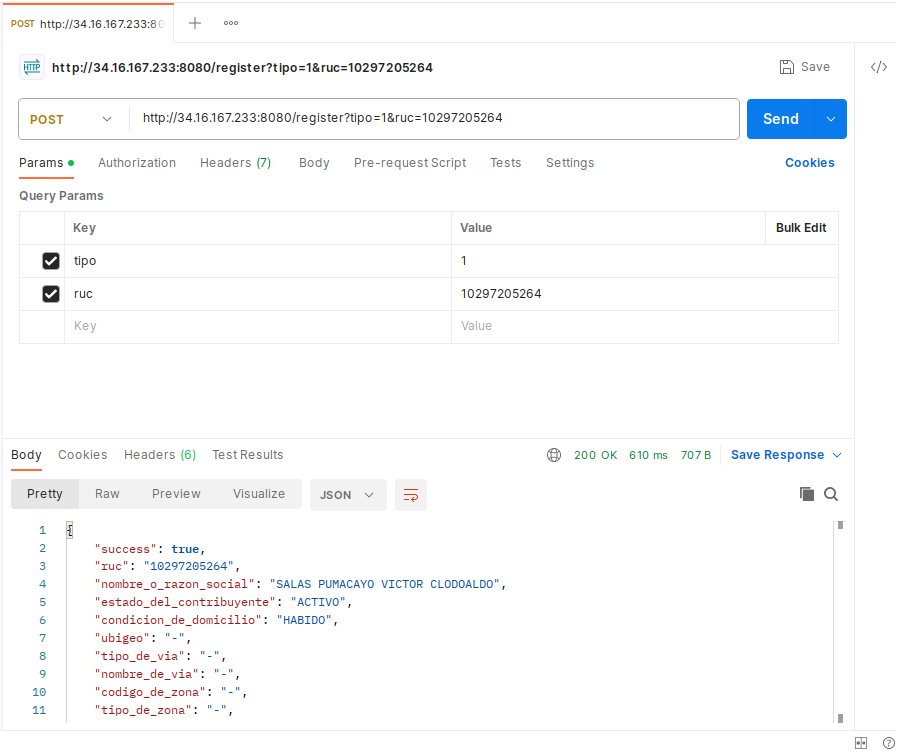
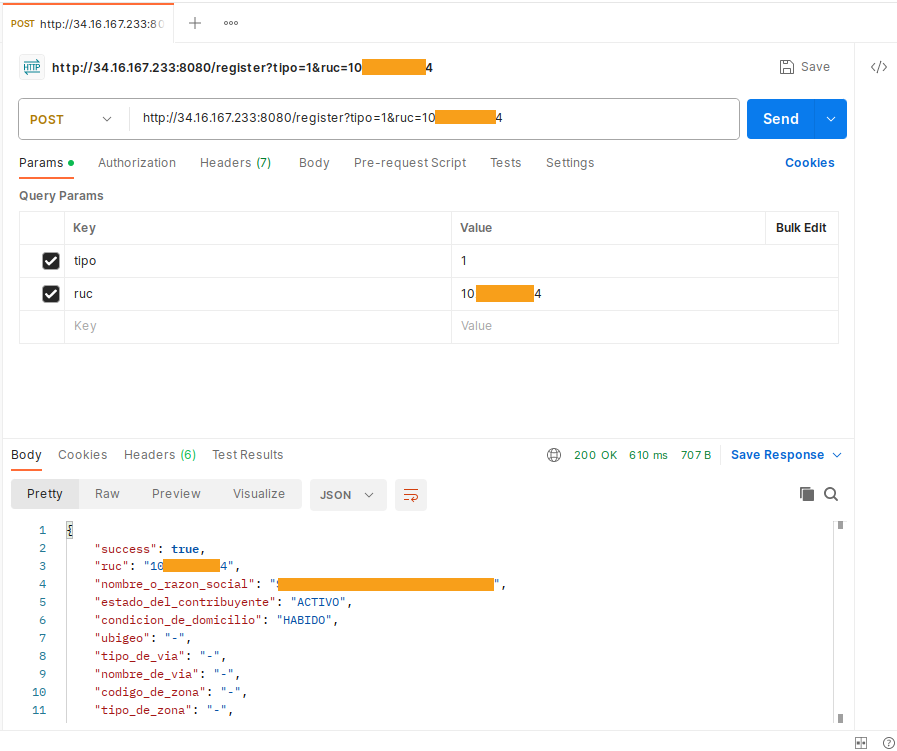
documentation

diff --git a/README-ES.md b/README-ES.md
@@ -105,6 +105,10 @@ está en el github.
 
 Para las pruebas puedes usar POSTMAM o CURL.
 
+## PUBLISHING
+
+La aplicación estuvo publicada durante siete días en la IP utilizada como ejemplo.
+
 ### POSTMAN
 
 puedes validar 2 pruebas GET y POST, GET para validar que la API está
@@ -129,13 +133,13 @@ POST
 ```
 Postman POST: http://34.16.167.233:8080/register
 Postman KEY: tipo, VALUE: 1
-Postman KEY: ruc,  VALUE: 10297205264
+Postman KEY: ruc,  VALUE: 10777777774
 ```
 
 Respuesta:
 
 ```json
-{"success": true, "ruc": "10297205264", "nombre_o_razon_social": "SALAS PUMACAYO VICTOR CLODOALDO", "estado_del_contribuyente": "ACTIVO", "condicion_de_domicilio": "HABIDO", "ubigeo": "-", "tipo_de_via": "-", "nombre_de_via": "-", "codigo_de_zona": "-", "tipo_de_zona": "-", "numero": "-", "interior": "-", "lote": "-", "dpto": "-", "manzana": "-", "kilometro": "-", "departamento": "-", "provincia": "-", "distrito": "-", "direccion": "", "direccion_completa": " - - - -", "ultima_actualizacion": "2023-12-03 13:42:19"}
+{"success": true, "ruc": "10777777774", "nombre_o_razon_social": "XXXXX WWW YYYY ZZZZZZ", "estado_del_contribuyente": "ACTIVO", "condicion_de_domicilio": "HABIDO", "ubigeo": "-", "tipo_de_via": "-", "nombre_de_via": "-", "codigo_de_zona": "-", "tipo_de_zona": "-", "numero": "-", "interior": "-", "lote": "-", "dpto": "-", "manzana": "-", "kilometro": "-", "departamento": "-", "provincia": "-", "distrito": "-", "direccion": "", "direccion_completa": " - - - -", "ultima_actualizacion": "2023-12-03 13:42:19"}
 ```
 
 Captura de pantalla Postman:
@@ -159,12 +163,12 @@ Respuesta:
 POST
 
 ```
-Curl POST: curl -d '{"tipo": "1", "ruc": "10297205264"}' -H 'Content-Type: application/json' http://34.16.167.233:8080/register
+Curl POST: curl -d '{"tipo": "1", "ruc": "10777777774"}' -H 'Content-Type: application/json' http://34.16.167.233:8080/register
 ```
 Respuesta:
 
 ```json
-{"success": true, "ruc": "10297205264", "nombre_o_razon_social": "SALAS PUMACAYO VICTOR CLODOALDO", "estado_del_contribuyente": "ACTIVO", "condicion_de_domicilio": "HABIDO", "ubigeo": "-", "tipo_de_via": "-", "nombre_de_via": "-", "codigo_de_zona": "-", "tipo_de_zona": "-", "numero": "-", "interior": "-", "lote": "-", "dpto": "-", "manzana": "-", "kilometro": "-", "departamento": "-", "provincia": "-", "distrito": "-", "direccion": "", "direccion_completa": " - - - -", "ultima_actualizacion": "2023-12-03 13:42:19"}
+{"success": true, "ruc": "10777777774", "nombre_o_razon_social": "XXXXX WWW YYYY ZZZZZZ", "estado_del_contribuyente": "ACTIVO", "condicion_de_domicilio": "HABIDO", "ubigeo": "-", "tipo_de_via": "-", "nombre_de_via": "-", "codigo_de_zona": "-", "tipo_de_zona": "-", "numero": "-", "interior": "-", "lote": "-", "dpto": "-", "manzana": "-", "kilometro": "-", "departamento": "-", "provincia": "-", "distrito": "-", "direccion": "", "direccion_completa": " - - - -", "ultima_actualizacion": "2023-12-03 13:42:19"}
 ```
 
 ## TIER 1: FRONT-END

diff --git a/README.md b/README.md
@@ -103,6 +103,10 @@ here, ultimately the source code It's on Git Hub.
 
 You can use POSTMAN or CURL for testing.
 
+## PUBLISHING
+
+The application was published for seven days on the IP used as an example.
+
 ### POSTMAN
 
 GET
@@ -122,13 +126,13 @@ POST
 ```
 Postman POST: http://34.16.167.233:8080/register
 Postman KEY: tipo, VALUE: 1
-Postman KEY: ruc,  VALUE: 10297205264
+Postman KEY: ruc,  VALUE: 10777777774
 ```
 
 Answer:
 
 ```json
-{"success": true, "ruc": "10297205264", "nombre_o_razon_social": "SALAS PUMACAYO VICTOR CLODOALDO", "estado_del_contribuyente": "ACTIVO", "condicion_de_domicilio": "HABIDO", "ubigeo": "-", "tipo_de_via": "-", "nombre_de_via": "-", "codigo_de_zona": "-", "tipo_de_zona": "-", "numero": "-", "interior": "-", "lote": "-", "dpto": "-", "manzana": "-", "kilometro": "-", "departamento": "-", "provincia": "-", "distrito": "-", "direccion": "", "direccion_completa": " - - - -", "ultima_actualizacion": "2023-12-03 13:42:19"}
+{"success": true, "ruc": "10777777774", "nombre_o_razon_social": "XXXXX WWW YYYY ZZZZZZ", "estado_del_contribuyente": "ACTIVO", "condicion_de_domicilio": "HABIDO", "ubigeo": "-", "tipo_de_via": "-", "nombre_de_via": "-", "codigo_de_zona": "-", "tipo_de_zona": "-", "numero": "-", "interior": "-", "lote": "-", "dpto": "-", "manzana": "-", "kilometro": "-", "departamento": "-", "provincia": "-", "distrito": "-", "direccion": "", "direccion_completa": " - - - -", "ultima_actualizacion": "2023-12-03 13:42:19"}
 ```
 
 Postman screenshot:
@@ -152,13 +156,13 @@ Answer:
 POST
 
 ```
-Curl POST: curl -d '{"tipo": "1", "ruc": "10297205264"}' -H 'Content-Type: application/json' http://34.16.167.233:8080/register
+Curl POST: curl -d '{"tipo": "1", "ruc": "10777777774"}' -H 'Content-Type: application/json' http://34.16.167.233:8080/register
 ```
 
 Answer:
 
 ```json
-{"success": true, "ruc": "10297205264", "nombre_o_razon_social": "SALAS PUMACAYO VICTOR CLODOALDO", "estado_del_contribuyente": "ACTIVO", "condicion_de_domicilio": "HABIDO", "ubigeo": "-", "tipo_de_via": "-", "nombre_de_via": "-", "codigo_de_zona": "-", "tipo_de_zona": "-", "numero": "-", "interior": "-", "lote": "-", "dpto": "-", "manzana": "-", "kilometro": "-", "departamento": "-", "provincia": "-", "distrito": "-", "direccion": "", "direccion_completa": " - - - -", "ultima_actualizacion": "2023-12-03 13:42:19"}
+{"success": true, "ruc": "10777777774", "nombre_o_razon_social": "XXXXX WWW YYYY ZZZZZZ", "estado_del_contribuyente": "ACTIVO", "condicion_de_domicilio": "HABIDO", "ubigeo": "-", "tipo_de_via": "-", "nombre_de_via": "-", "codigo_de_zona": "-", "tipo_de_zona": "-", "numero": "-", "interior": "-", "lote": "-", "dpto": "-", "manzana": "-", "kilometro": "-", "departamento": "-", "provincia": "-", "distrito": "-", "direccion": "", "direccion_completa": " - - - -", "ultima_actualizacion": "2023-12-03 13:42:19"}
 ```
 
 ## TIER 1: FRONT-END
